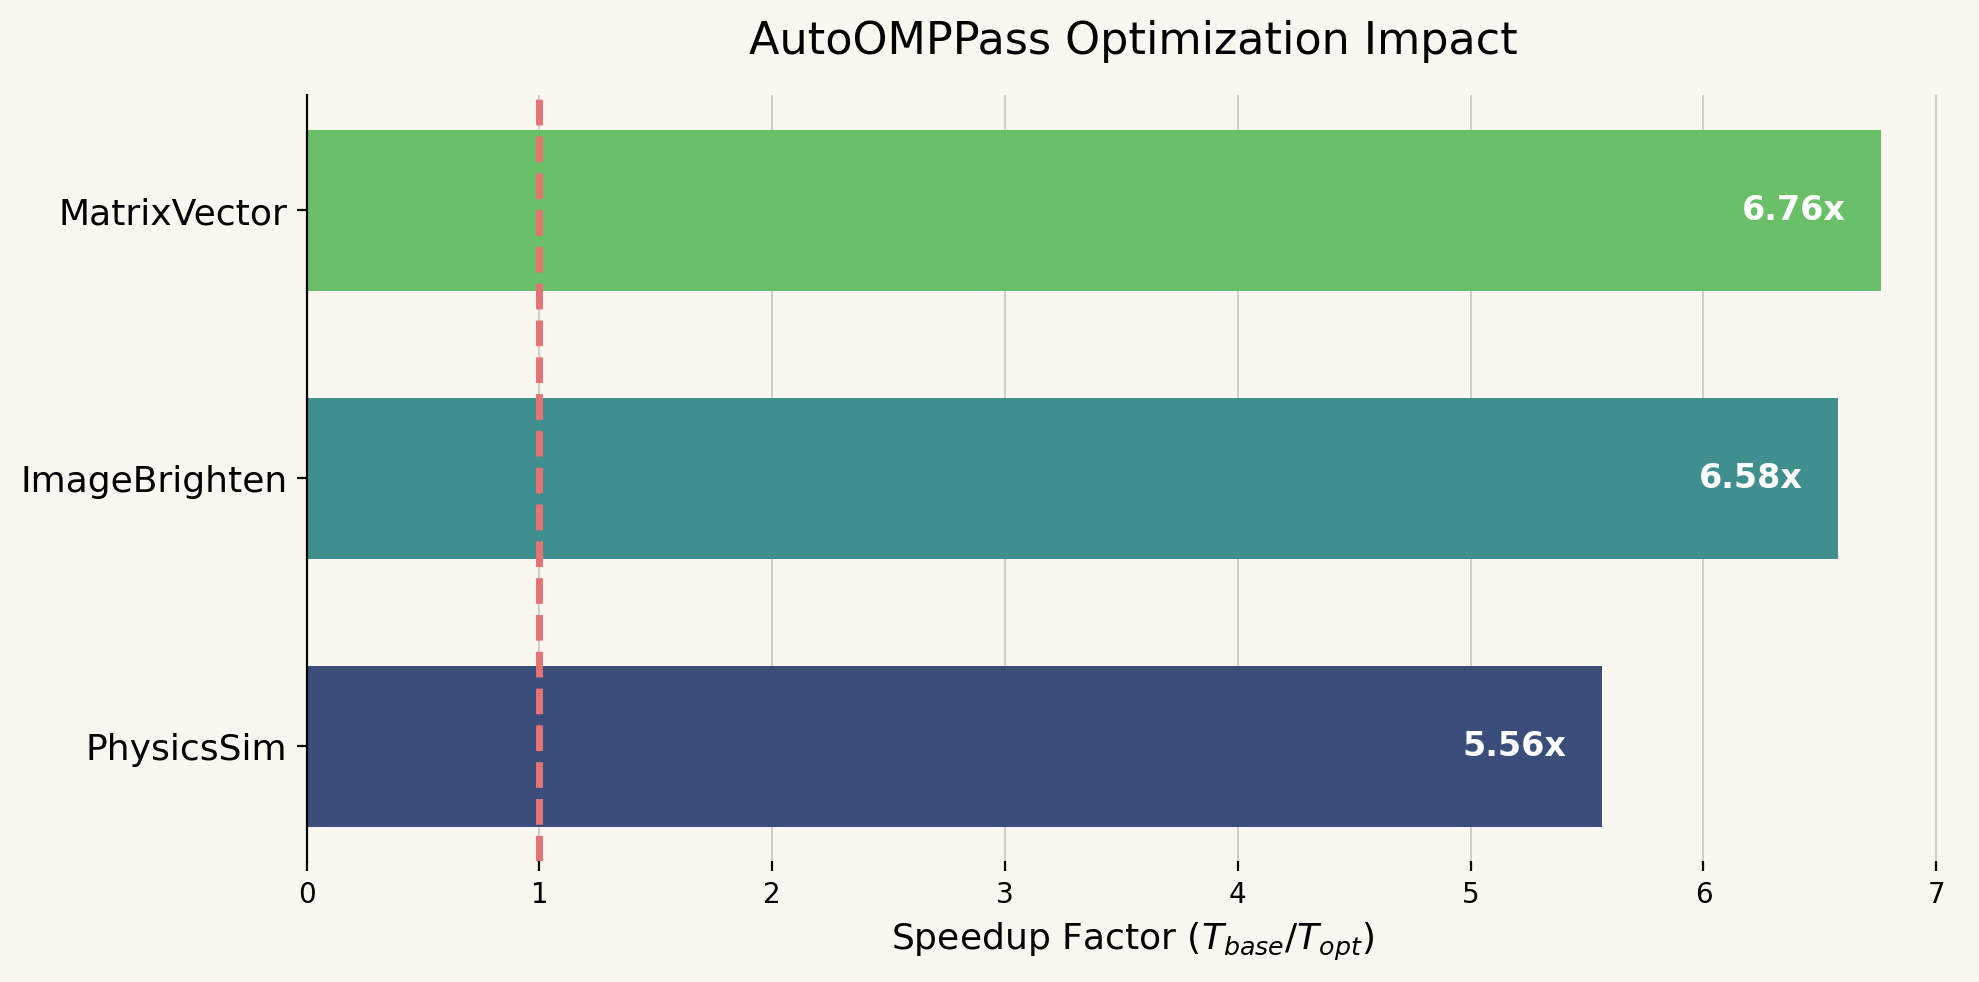
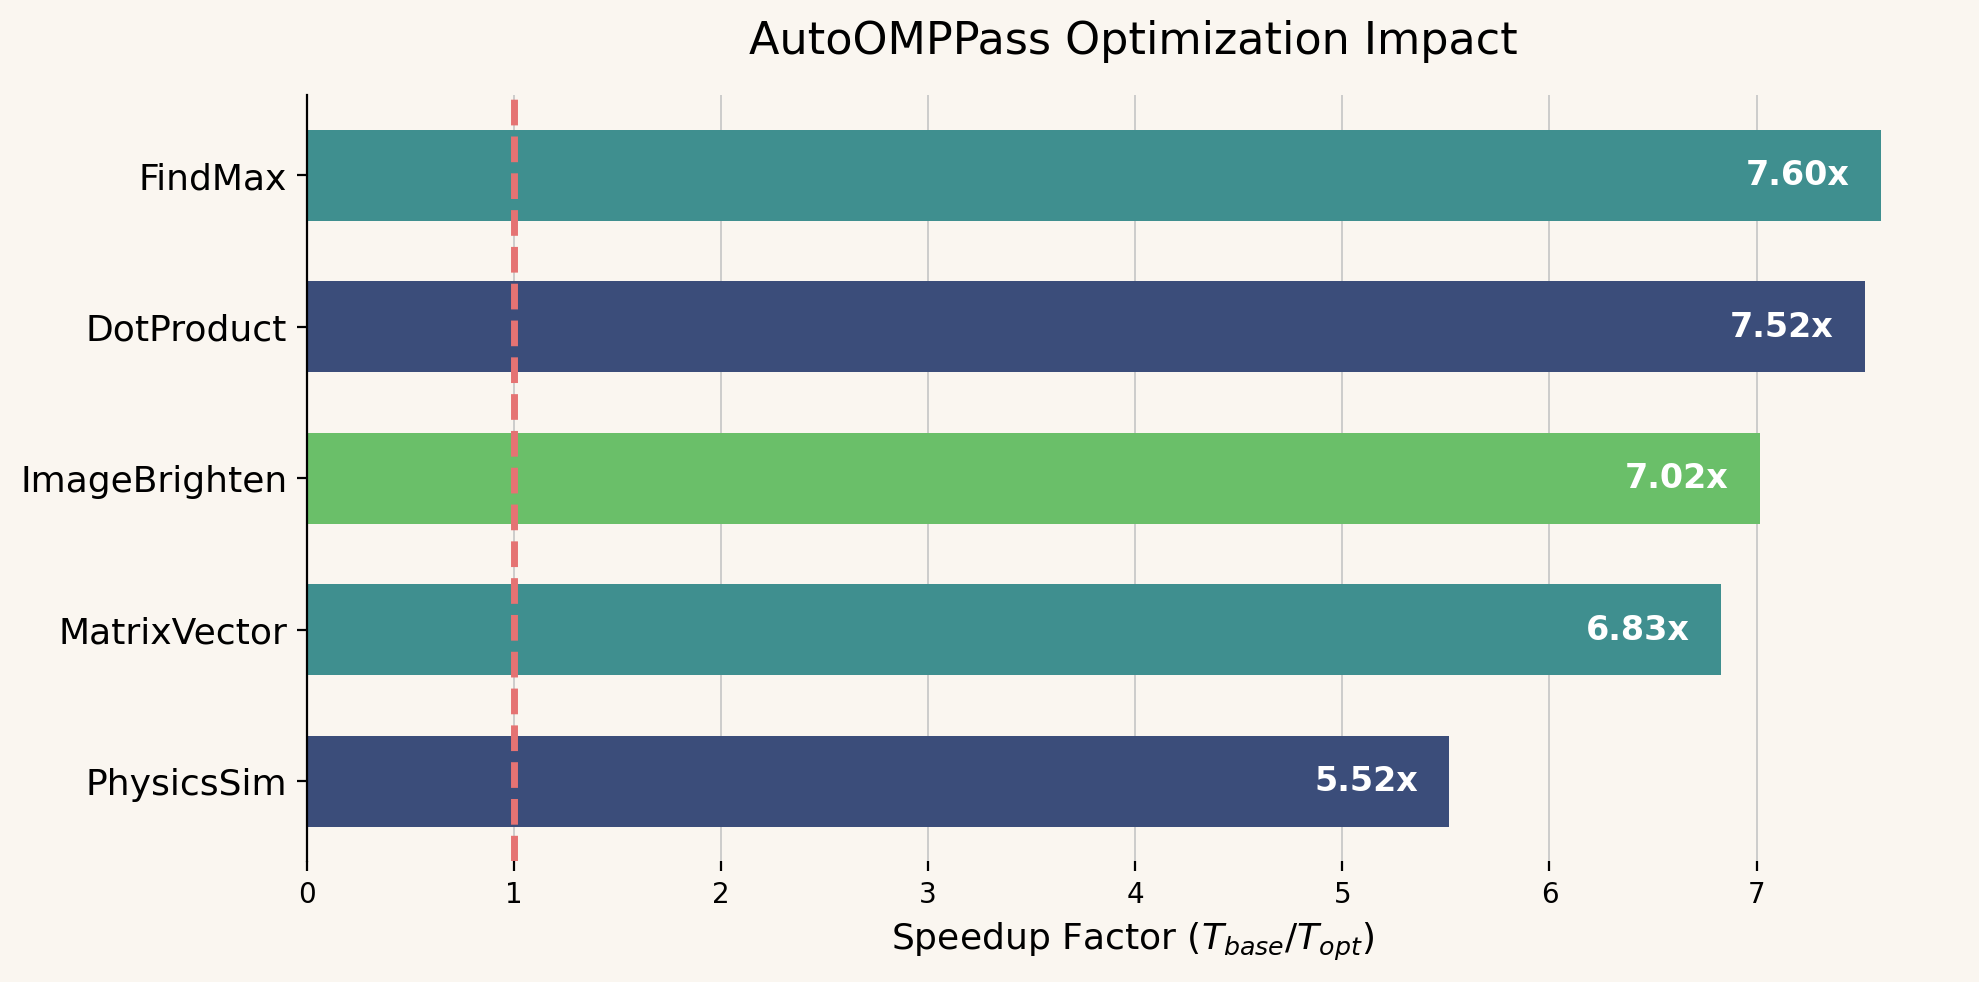
Add vectorization hints

diff --git a/src/LoopCodegen.cpp b/src/LoopCodegen.cpp
@@ -146,7 +146,16 @@ static void cloneLoopBodyBlocks(ArrayRef<BasicBlock *> SrcBlocks, BasicBlock *He
 // Parallel loop emission
 // ===----------------------------------------------------------------------===//
 
-/// Apply SIMD (when no reductions) and workshare to a canonical loop.
+static void addVectorizeHint(CanonicalLoopInfo *CLI, LLVMContext &Ctx) {
+    auto *Latch = CLI->getLatch();
+    auto *Term = Latch->getTerminator();
+    MDNode *VecEnable = MDNode::get(Ctx, {MDString::get(Ctx, "llvm.loop.vectorize.enable"),
+                                          ConstantAsMetadata::get(ConstantInt::getTrue(Ctx))});
+    MDNode *LoopID = MDNode::get(Ctx, {nullptr, VecEnable});
+    LoopID->replaceOperandWith(0, LoopID); // self-reference
+    Term->setMetadata(LLVMContext::MD_loop, LoopID);
+}
+
 static Error finalizeLoop(CanonicalLoopInfo *CLI, OpenMPIRBuilder &OMPBuilder, DebugLoc DL,
                           bool HasReductions, OpenMPIRBuilder::InsertPointTy InnerAllocaIP,
                           OpenMPIRBuilder::InsertPointTy &SavedBodyIP,
@@ -154,6 +163,9 @@ static Error finalizeLoop(CanonicalLoopInfo *CLI, OpenMPIRBuilder &OMPBuilder, D
     if (!HasReductions)
         OMPBuilder.applySimd(CLI, {}, nullptr, omp::OrderKind::OMP_ORDER_concurrent, nullptr,
                              nullptr);
+    else {
+        addVectorizeHint(CLI, OMPBuilder.M.getContext());
+    }
     auto WS = OMPBuilder.applyWorkshareLoop(DL, CLI, InnerAllocaIP, true);
     if (!WS)
         return WS.takeError();
@@ -306,11 +318,34 @@ bool llvm::emitParallelLoop(Loop *L, Loop *OutermostL, LoopCandidate &LC,
         SmallVector<OpenMPIRBuilder::ReductionInfo, 2> OMPReds;
         SmallVector<bool, 2> IsByRef;
         for (auto &R : LC.Reductions) {
-            auto RedCB = [Opc = RecurrenceDescriptor::getOpcode(R.Kind)](
-                             OpenMPIRBuilder::InsertPointTy IP, Value *LHS, Value *RHS,
-                             Value *&Res) -> OpenMPIRBuilder::InsertPointOrErrorTy {
+            auto RedCB = [Kind = R.Kind](OpenMPIRBuilder::InsertPointTy IP, Value *LHS, Value *RHS,
+                                         Value *&Res) -> OpenMPIRBuilder::InsertPointOrErrorTy {
                 IRBuilder<> B(IP.getBlock(), IP.getPoint());
-                Res = B.CreateBinOp(static_cast<Instruction::BinaryOps>(Opc), LHS, RHS, "red");
+                switch (Kind) {
+                case RecurKind::SMax:
+                    Res = B.CreateSelect(B.CreateICmpSGT(LHS, RHS), LHS, RHS, "red");
+                    break;
+                case RecurKind::SMin:
+                    Res = B.CreateSelect(B.CreateICmpSLT(LHS, RHS), LHS, RHS, "red");
+                    break;
+                case RecurKind::UMax:
+                    Res = B.CreateSelect(B.CreateICmpUGT(LHS, RHS), LHS, RHS, "red");
+                    break;
+                case RecurKind::UMin:
+                    Res = B.CreateSelect(B.CreateICmpULT(LHS, RHS), LHS, RHS, "red");
+                    break;
+                case RecurKind::FMax:
+                    Res = B.CreateMaxNum(LHS, RHS);
+                    break;
+                case RecurKind::FMin:
+                    Res = B.CreateMinNum(LHS, RHS);
+                    break;
+                default:
+                    Res = B.CreateBinOp(
+                        static_cast<Instruction::BinaryOps>(RecurrenceDescriptor::getOpcode(Kind)),
+                        LHS, RHS, "red");
+                    break;
+                }
                 return B.saveIP();
             };
             OMPReds.push_back({R.Phi->getType(), R.SharedAlloca, PrivatizedAllocas[R.SharedAlloca],

diff --git a/tests/bench.cpp b/tests/bench.cpp
@@ -47,6 +47,25 @@ void image_brighten(int *__restrict__ out, const int *__restrict__ in, int N, in
     }
 }
 
+__attribute__((noinline)) double dot_product_bench(const double *__restrict__ a,
+                                                   const double *__restrict__ b, int N) {
+    double sum = 0.0;
+    for (int i = 0; i < N; ++i) {
+        sum += a[i] * b[i];
+    }
+    return sum;
+}
+
+__attribute__((noinline)) int find_max_bench(const int *data, int N) {
+    int mx = data[0];
+    for (int i = 1; i < N; ++i) {
+        if (data[i] > mx) {
+            mx = data[i];
+        }
+    }
+    return mx;
+}
+
 // ---- Fixtures ----
 
 class ImageBrightenBench : public benchmark::Fixture {
@@ -115,6 +134,42 @@ class PhysicsSimBench : public benchmark::Fixture {
     }
 };
 
+class DotProductBench : public benchmark::Fixture {
+  public:
+    static constexpr int N = 20'000'000;
+    std::vector<double> a;
+    std::vector<double> b;
+
+    void SetUp(benchmark::State &) override {
+        a.resize(N);
+        b.resize(N);
+        for (int i = 0; i < N; ++i) {
+            a[i] = 0.001 * (i % 1000);
+            b[i] = 0.002 * ((i + 500) % 1000);
+        }
+    }
+
+    void TearDown(benchmark::State &) override {
+        a.clear();
+        b.clear();
+    }
+};
+
+class FindMaxBench : public benchmark::Fixture {
+  public:
+    static constexpr int N = 20'000'000;
+    std::vector<int> data;
+
+    void SetUp(benchmark::State &) override {
+        data.resize(N);
+        for (int i = 0; i < N; ++i) {
+            data[i] = (i * 2654435761u) % N; // pseudo-random scatter
+        }
+    }
+
+    void TearDown(benchmark::State &) override { data.clear(); }
+};
+
 // ---- Benchmarks ----
 
 BENCHMARK_F(ImageBrightenBench, Run)(benchmark::State &state) {
@@ -135,6 +190,18 @@ BENCHMARK_F(PhysicsSimBench, Run)(benchmark::State &state) {
     for (auto _ : state) {
         physics_sim(out.data(), in.data(), N);
         benchmark::DoNotOptimize(out[N / 2]);
+    }
+}
+
+BENCHMARK_F(DotProductBench, Run)(benchmark::State &state) {
+    for (auto _ : state) {
+        benchmark::DoNotOptimize(dot_product_bench(a.data(), b.data(), N));
+    }
+}
+
+BENCHMARK_F(FindMaxBench, Run)(benchmark::State &state) {
+    for (auto _ : state) {
+        benchmark::DoNotOptimize(find_max_bench(data.data(), N));
     }
 }
 

diff --git a/tests/suite.cpp b/tests/suite.cpp
@@ -97,6 +97,48 @@ TEST_F(LoopTest, GlobalIndexedWrite) {
     verify_hash(compute_hash(g_output, N), 8024147421901249633ULL, "GlobalIndexedWrite");
 }
 
+// ---- SIMD reductions ----
+
+TEST_F(LoopTest, DotProduct) {
+    auto a = rand_doubles(N);
+    auto b = rand_doubles(N);
+    double expected = 0.0;
+    for (int i = 0; i < N; ++i)
+        expected += a[i] * b[i];
+    double actual = dot_product(a.data(), b.data(), N);
+    EXPECT_NEAR(actual, expected, std::abs(expected) * 1e-10);
+}
+
+TEST_F(LoopTest, FpProduct) {
+    // Use small values near 1.0 to avoid overflow/underflow.
+    auto data = rand_doubles(N, 0.999, 1.001);
+    double expected = 1.0;
+    for (int i = 0; i < N; ++i)
+        expected *= data[i];
+    double actual = fp_product(data.data(), N);
+    EXPECT_NEAR(actual, expected, std::abs(expected) * 1e-6);
+}
+
+TEST_F(LoopTest, FindMax) {
+    auto data = rand_ints(N);
+    int expected = *std::max_element(data.begin(), data.end());
+    EXPECT_EQ(find_max(data.data(), N), expected);
+}
+
+TEST_F(LoopTest, FindMin) {
+    auto data = rand_ints(N);
+    int expected = *std::min_element(data.begin(), data.end());
+    EXPECT_EQ(find_min(data.data(), N), expected);
+}
+
+TEST_F(LoopTest, BitwiseOrReduce) {
+    auto data = rand_ints(N, 0, 255);
+    int expected = 0;
+    for (int i = 0; i < N; ++i)
+        expected |= data[i];
+    EXPECT_EQ(bitwise_or_reduce(data.data(), N), expected);
+}
+
 // ---- Collapse ----
 
 TEST_F(LoopTest, ScaleMatrix) {

diff --git a/tests/functions/parallel_loops.cpp b/tests/functions/parallel_loops.cpp
@@ -124,6 +124,42 @@ void matrix_vector(double *__restrict__ C, const double *__restrict__ A,
     }
 }
 
+// ======= SIMD reductions =======
+
+double dot_product(const double *__restrict__ a, const double *__restrict__ b, int N) {
+    double sum = 0.0;
+    for (int i = 0; i < N; ++i) {
+        sum += a[i] * b[i];
+    }
+    return sum;
+}
+
+int find_max(const int *data, int N) {
+    int mx = data[0];
+    for (int i = 1; i < N; ++i) {
+        if (data[i] > mx)
+            mx = data[i];
+    }
+    return mx;
+}
+
+int find_min(const int *data, int N) {
+    int mn = data[0];
+    for (int i = 1; i < N; ++i) {
+        if (data[i] < mn)
+            mn = data[i];
+    }
+    return mn;
+}
+
+int bitwise_or_reduce(const int *data, int N) {
+    int result = 0;
+    for (int i = 0; i < N; ++i) {
+        result |= data[i];
+    }
+    return result;
+}
+
 // ======= Heavy computation =======
 
 double do_heavy_math(double input, int iterations = 20) noexcept {

diff --git a/src/AutoOMPPass.cpp b/src/AutoOMPPass.cpp
@@ -68,13 +68,12 @@ static bool parallelizeLoop(Loop *L, OpenMPIRBuilder &OMPBuilder, ScalarEvolutio
 
     // Emit remark at the outermost parallelized loop's location.
     unsigned Depth = LC.OuterLevels.size() + 1;
-    if (LC.Reductions.empty() && Depth == 1)
-        Remark(OutermostL, "✅ #omp parallel for simd");
-    else if (LC.Reductions.empty())
-        Remark(OutermostL,
-               ("✅ #omp parallel for simd collapse(" + Twine(Depth) + ")").str());
-    else
-        Remark(OutermostL, "✅ #omp parallel for simd reduction");
+    std::string Tag = "✅ #omp parallel for simd";
+    if (Depth > 1)
+        Tag += " collapse(" + std::to_string(Depth) + ")";
+    if (!LC.Reductions.empty())
+        Tag += " reduction";
+    Remark(OutermostL, Tag);
 
     return emitParallelLoop(L, OutermostL, LC, OMPBuilder, F);
 }
